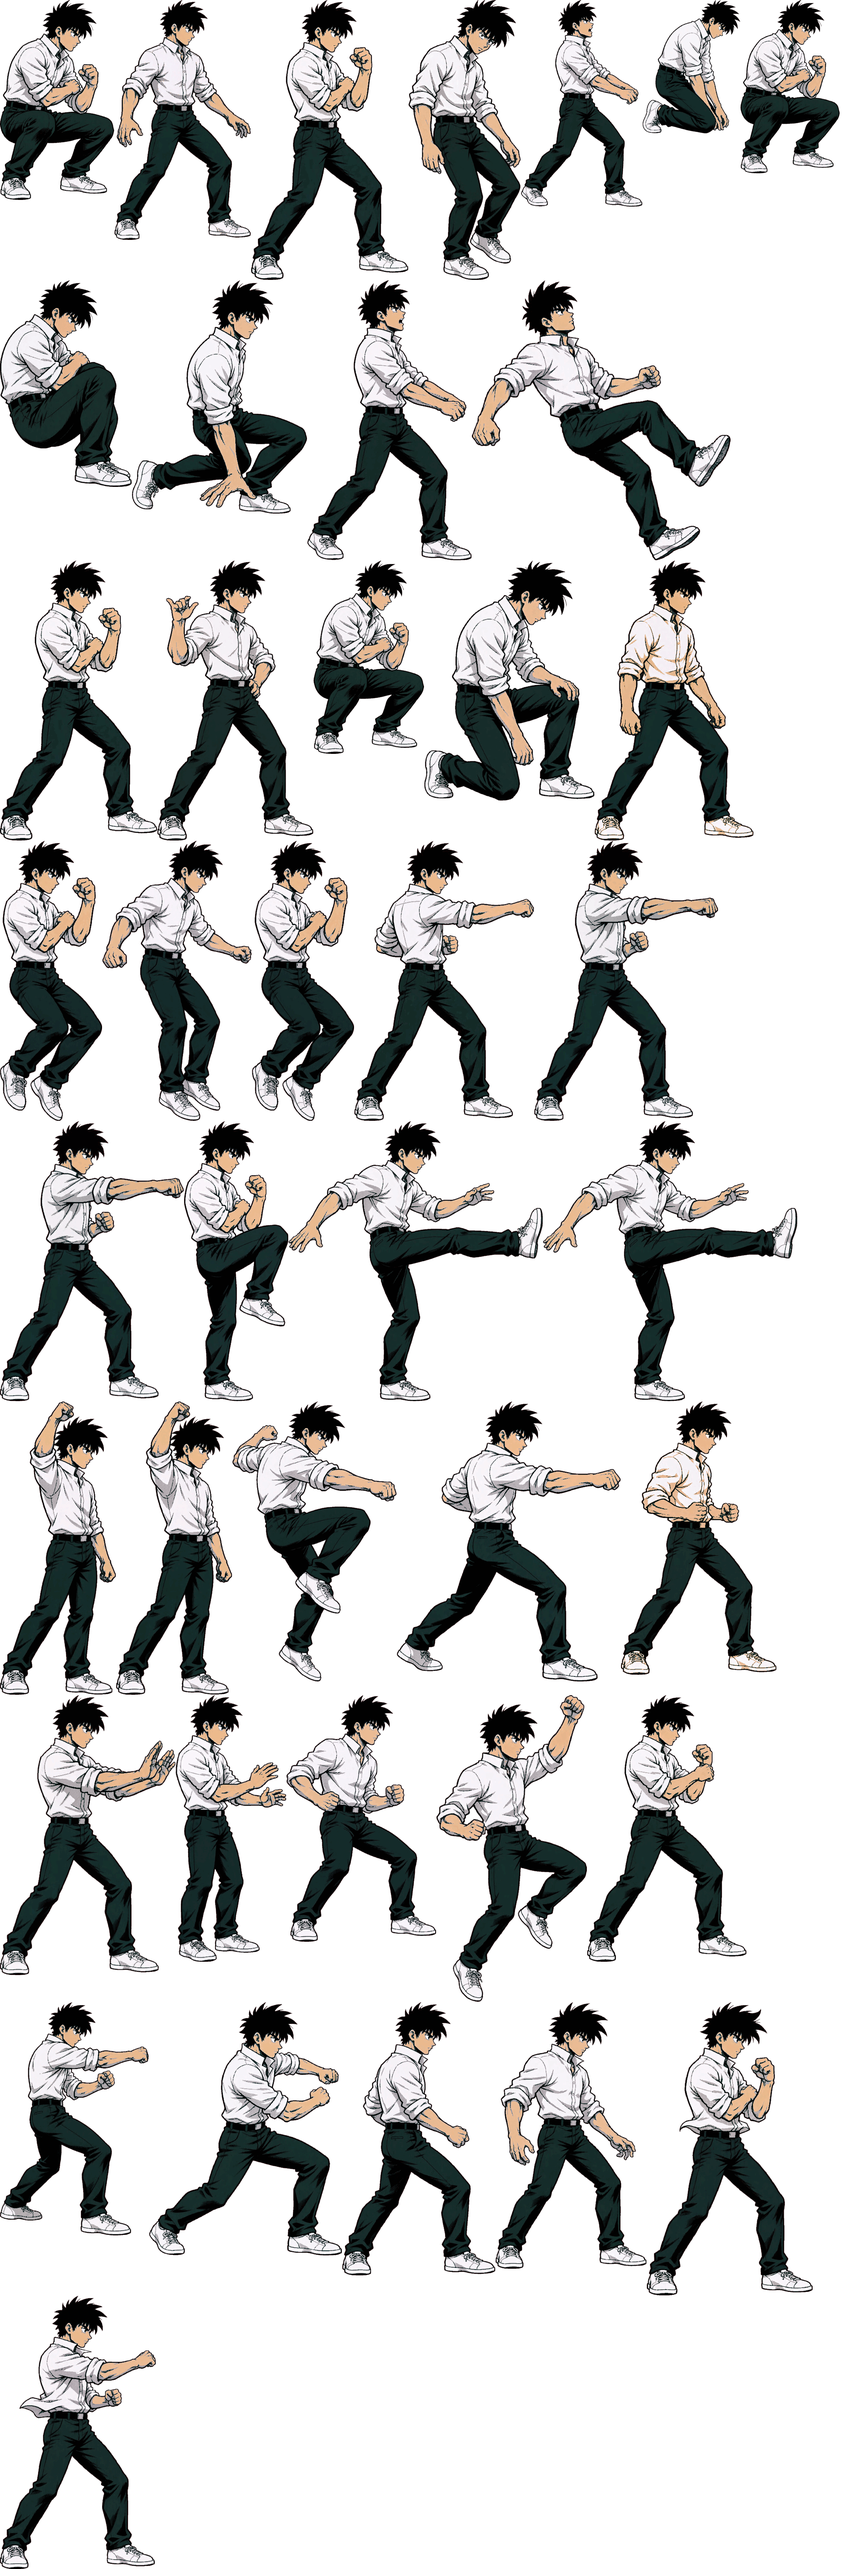
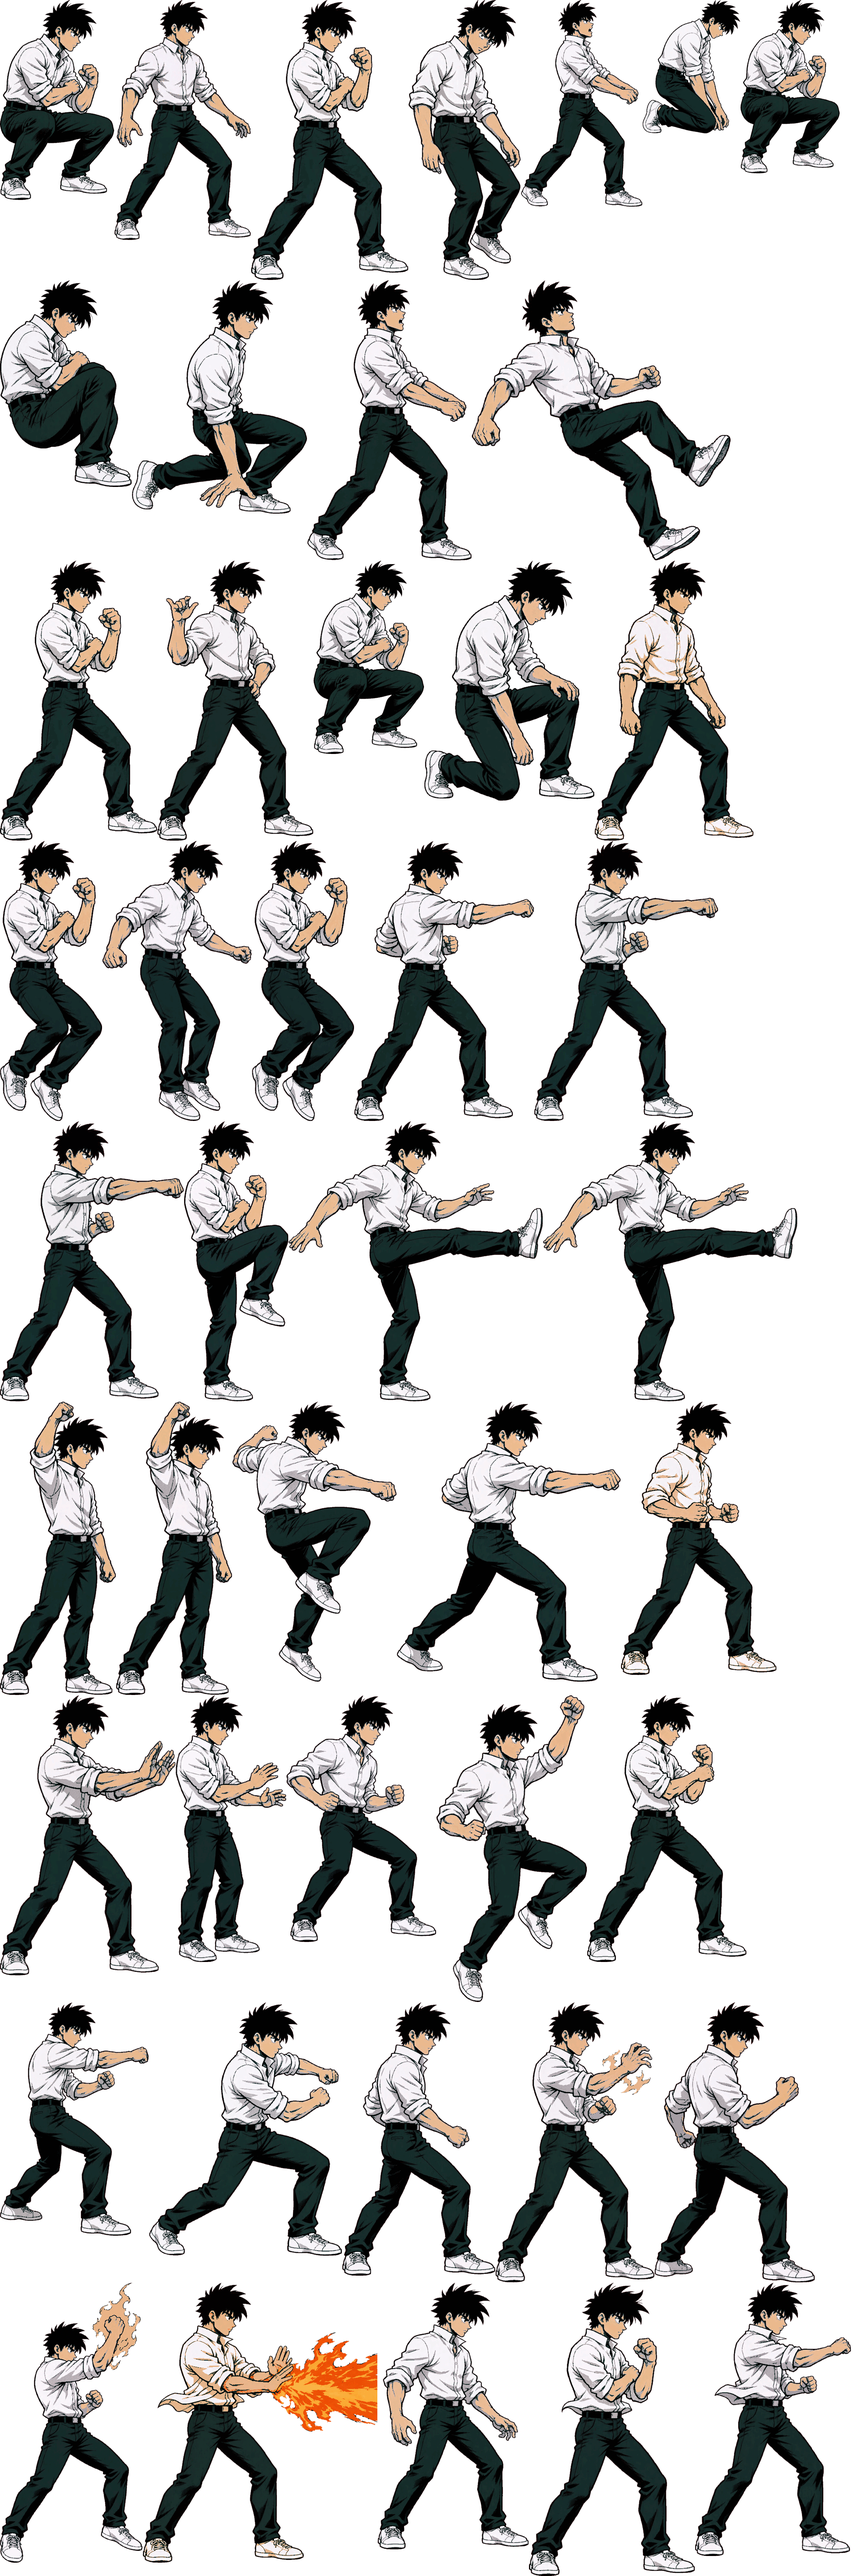
批次 20261027-0619 · [T258] 角色动作专属化 1/27：草薙京 4 个必杀各有专属姿势
背景：所有角色共用一个姿势库——京的「荒咬」、八神的「屑風」、Terry 的「Power Wave」、
Athena 的「Psycho Ball」全是同一个"双手前推"。规划见 docs/MOVE-PER-CHAR.md。

改了什么：
- gen-poses 加 4 条京专属提示词（荒咬：爪状上撩带火焰；毒咬：低处上勾；
  鬼焼：冲天拳带火；大蛇薙：双手推出火柱）
- build-sheet 加 kyspecial1/2/3 + kysuper 四个动画
- poses.ts 加这 4 个的程序化兜底（贴图没加载时别画出站架）
- kyo.ts 把 4 个必杀的 anim 从 'special' 换成专属名（236236AC 和 236236P 共用 kysuper）

为什么先做 1 帧而不是 3 帧：先验证"AI 能不能画出角色专属招式"这个前提。
4 张图 3 分钟，3 帧要 12 张 9 分钟——方向不对就别浪费。

效果（/tmp/kyo-moves.png）：荒咬带爪焰、鬼焼是带火的冲天拳、大蛇薙喷出火柱，
三张都明显不是原来的"双手前推"；毒咬那张 AI 没画出火焰，需要单独重出。

怎么验证的：node 直读确认 236A→kyspecial1、623P→kyspecial3、236236P→kysuper、
5C→punchHeavy（没误伤普通技）；art:check 通过；npm run check 995 条全绿
（修了 2 处被专属化影响的断言：超必杀映射改用还没专属化的 IORI、动画总数改成 >=33）
**游戏内截图没抓到目标帧**：键盘搓 236 容易判成 5C、超必杀要满气而开局为 0，
改用"原图预览 + 数据断言"验证。

diff --git a/src/data/chars/kyo.ts b/src/data/chars/kyo.ts
@@ -156,7 +156,7 @@ export const KYO: CharDef = {
     ]),
 
     // ---------------------------------------------------------------- 必杀技
-    '236A': mv('236A', '百拾四式・荒咬み', 'special', 34, 'special', [
+    '236A': mv('236A', '百拾四式・荒咬み', 'kyspecial1', 34, 'special', [
       hit('h1', {
         box: { x: 22, y: -62, w: 36, h: 16 },
         frames: [10, 13],
@@ -193,7 +193,7 @@ export const KYO: CharDef = {
       }),
     ], { input: { motion: '236', buttons: ['A'] } }),
 
-    '236C': mv('236C', '百拾五式・毒咬み', 'special', 36, 'special', [
+    '236C': mv('236C', '百拾五式・毒咬み', 'kyspecial2', 36, 'special', [
       hit('h1', {
         box: { x: 24, y: -58, w: 38, h: 18 },
         frames: [11, 14],
@@ -230,7 +230,7 @@ export const KYO: CharDef = {
       }),
     ], { input: { motion: '236', buttons: ['C'] } }),
 
-    '623P': mv('623P', '百式・鬼焼き', 'special', 42, 'special', [
+    '623P': mv('623P', '百式・鬼焼き', 'kyspecial3', 42, 'special', [
       hit('h1', {
         box: { x: 6, y: -88, w: 26, h: 62 },
         frames: [4, 11],
@@ -280,7 +280,7 @@ export const KYO: CharDef = {
     ], { input: { motion: '421', buttons: ['B'] } }),
 
     // ---------------------------------------------------------------- 超必杀
-    '236236P': mv('236236P', '裏百八式・大蛇薙', 'special', 62, 'super', [
+    '236236P': mv('236236P', '裏百八式・大蛇薙', 'kysuper', 62, 'super', [
       hit('h1', {
         box: { x: 16, y: -88, w: 46, h: 80 },
         frames: [12, 16],
@@ -311,7 +311,7 @@ export const KYO: CharDef = {
       }),
     ], { input: { motion: '236236', buttons: ['A'] }, meterCost: 50 }),
 
-    '236236AC': mv('236236AC', '最終決戦奥義・無式', 'special', 74, 'super', [
+    '236236AC': mv('236236AC', '最終決戦奥義・無式', 'kysuper', 74, 'super', [
       hit('h1', { box: { x: 14, y: -80, w: 44, h: 60 }, frames: [10, 14], damage: 50, hitStun: 20, hitstop: 10, meterGain: 0 }),
       hit('h2', { box: { x: 14, y: -80, w: 44, h: 60 }, frames: [20, 24], damage: 45, hitStun: 20, hitstop: 10, meterGain: 0 }),
       hit('h3', { box: { x: 14, y: -80, w: 44, h: 60 }, frames: [30, 34], damage: 45, hitStun: 20, hitstop: 10, meterGain: 0 }),

diff --git a/src/render/poses.ts b/src/render/poses.ts
@@ -428,6 +428,33 @@ export const POSE_LIBRARY: Record<string, Pose> = {
       f({ head: p(1, -70), neck: p(1, -60), armFront: [p(6, -56), p(10, -48)], armBack: [p(-4, -56), p(-6, -48)] }),
     ],
   },
+  /**
+   * 角色专属必杀的**程序化兜底**。
+   *
+   * 这些动画真正的样子来自出图（`kyspecial1` 等）；这里只是一帧兜底形状，
+   * 用于"贴图没加载/加载失败"时别画出个站架。形状尽量贴近该招的意图：
+   * 荒咬＝爪状上撩、毒咬＝低处上勾、鬼焼＝冲天、大蛇薙＝双手推出。
+   */
+  kyspecial1: {
+    frameDuration: 1,
+    loop: false,
+    frames: [f({ head: p(0, -68), neck: p(1, -58), armFront: [p(10, -62), p(22, -70)], armBack: [p(-6, -52), p(-10, -44)] })],
+  },
+  kyspecial2: {
+    frameDuration: 1,
+    loop: false,
+    frames: [f({ head: p(2, -64), neck: p(2, -54), hip: p(-1, -34), armFront: [p(8, -46), p(16, -54)], armBack: [p(-8, -50), p(-14, -44)] })],
+  },
+  kyspecial3: {
+    frameDuration: 1,
+    loop: false,
+    frames: [f({ head: p(1, -76), neck: p(1, -64), hip: p(0, -42), armFront: [p(6, -72), p(4, -86)], armBack: [p(-8, -52), p(-10, -44)] })],
+  },
+  kysuper: {
+    frameDuration: 1,
+    loop: false,
+    frames: [f({ head: p(0, -70), neck: p(0, -60), armFront: [p(16, -56), p(32, -54)], armBack: [p(8, -56), p(20, -54)] })],
+  },
   /** 升龙系：整个人向上冲，手臂上举 */
   specialUppercut: {
     frameDuration: 1,

diff --git a/tests/move-anim.test.ts b/tests/move-anim.test.ts
@@ -18,7 +18,9 @@ describe('必杀技专属动作', () => {
   it('波动用推手、升龙用上挑、超必杀用蓄力（各有专属姿势）', () => {
     expect(poseForMotion('236')).toBe('specialProjectile');
     expect(poseForMotion('623')).toBe('specialUppercut');
-    expect(poseForMove(KYO.moves['236236AC']!)).toBe('superCharge');
+    // 京现在是**专属化**过的角色（T258），超必杀用他自己的 kysuper；
+    // 用还没专属化的 IORI 验证通用映射规则本身
+    expect(poseForMove(IORI.moves['236236A']!)).toBe('superCharge');
   });
 
   it('映射出来的姿势必须真的存在（否则有贴图的角色会回落到程序化绘制）', () => {

diff --git a/tests/sprite-loader.test.ts b/tests/sprite-loader.test.ts
@@ -193,8 +193,9 @@ describe('图集分片（首屏只下核心片）', () => {
     expect(overlap).toEqual([]);
   });
 
-  it('两片合起来覆盖全部 33 个动画（分片不能丢动作）', () => {
-    expect(Object.keys(sheetJson.anims).length).toBe(33);
+  it('两片合起来覆盖全部动画（分片不能丢动作）', () => {
+    // 33 个通用动画 + 京的 4 个专属必杀（T258 起，专属化会继续加）
+    expect(Object.keys(sheetJson.anims).length).toBeGreaterThanOrEqual(33);
   });
 });
 

diff --git a/docs/MOVE-PER-CHAR.md b/docs/MOVE-PER-CHAR.md
@@ -62,7 +62,7 @@ mv('236A', '百拾四式・荒咬', 'punchLight', 26, 'special', [...])
 
 | # | 角色 | 必杀专属动作 | 状态 |
 |---|---|---|---|
-| 1 | 草薙京 kyo | 荒咬 / 九伤 / 八锖 / 毒咬 | - |
+| 1 | 草薙京 kyo | 荒咬 / 毒咬み / 鬼焼き / 大蛇薙 | **done** |
 | 2 | 二阶堂红丸 benimaru | 雷光拳 / 真空片手驹 / 居合い蹴り / 雷靭拳 | - |
 | 3 | 大门五郎 daimon | 地雷震 / 超大外刈り / 天地返し / 雲つかみ | - |
 | 4 | Terry terry | パワーウェイブ / バーンナックル / ライジングタックル / パワーガイザー | - |
@@ -90,9 +90,29 @@ mv('236A', '百拾四式・荒咬', 'punchLight', 26, 'special', [...])
 | 26 | 暴走庵 orochi_iori | 百八式・闇払い / 百式・鬼焼き / 屑風 / 禁千弐百拾八式・八稚女 | - |
 | 27 | 覚醒レオナ orochi_leona | グランドセイバー / ムーンストライカー / Xキャリバー / リボルブブラスター | - |
 
-**完成度：0 / 27**
+**完成度：1 / 27**
 
-## 六、执行约定
+## 六、已完成记录
+
+### 1. 草薙京（done）
+
+4 个必杀各出一张专属姿势（先做 1 帧验证方向，起手/收招后续补）：
+
+| 招式 | 专属动画 | 出图效果 |
+|---|---|---|
+| 百拾四式・荒咬み（236A） | `kyspecial1` | 右手成爪前撩、**腕部带橙色火焰** |
+| 百拾五式・毒咬み（236C） | `kyspecial2` | 右拳由下向上勾击（这张 AI **没画出火焰**，需要重出） |
+| 百式・鬼焼き（623P） | `kyspecial3` | 向上冲天拳、**拳头带火** |
+| 裏百八式・大蛇薙（236236P） | `kysuper` | 双手推出、**喷出巨大火柱** |
+
+数据改动：`mv()` 第 3 参数从 `'special'` 换成专属 anim 名。
+验证：`node` 直读确认 `236A → pose kyspecial1`、`623P → kyspecial3`、`236236P → kysuper`；
+`art:check` 通过。
+
+**截图验证受限**：键盘输入 236 指令很容易被判成 5C、超必杀又需要满气（开局气为 0），
+所以游戏内截图没抓到目标帧；改为「原图预览 + 数据断言」验证。
+
+## 七、执行约定
 
 - 每个角色一次提交，提交信息带 `批次 + [T<编号>] 角色名 + 3/27`
 - 每完成一个角色：更新上表状态 → 重打包该角色 → `art:check` → 单测

diff --git a/.continue/doing/59bce7.md b/.continue/doing/59bce7.md
@@ -1,0 +1,15 @@
+# 队列 · 会话 59bce766a368447cf9cf15c7e36322c83
+
+> 状态：执行中
+> 创建：2026-10-27
+> 批次：20261027-0619
+
+> 本批目标：角色动作专属化 · 第 1 个角色（草薙京）。
+
+- [x] [T258] 草薙京 4 个必杀专属动作（1/27）→ 出图 + 数据 + 原图验证
+  - 背景：所有角色共用一个姿势库，京的荒咬/八神的屑風/Terry 的 Power Wave/Athena 的 Psycho Ball 全是同一个"双手前推"。规划见 `docs/MOVE-PER-CHAR.md`
+  - 做了什么：①`gen-poses.mjs` 加 4 条京专属提示词（荒咬：爪状上撩带火焰；毒咬：低处上勾；鬼焼：冲天拳带火；大蛇薙：双手推出火柱）；②`build-sheet.mjs` 加 `kyspecial1/2/3` + `kysuper` 四个动画；③`kyo.ts` 把 4 个必杀的 anim 从 `'special'` 换成专属名（`236236AC` 和 `236236P` 共用 `kysuper`）
+  - 为什么先做 1 帧而不是 3 帧：先验证"AI 能不能画出角色专属招式"这个前提。4 张图只要 3 分钟，3 帧要 12 张、9 分钟——方向不对就别浪费
+  - **效果（/tmp/kyo-moves.png）**：荒咬带爪焰、鬼焼是带火的冲天拳、大蛇薙喷出火柱——三张都明显不是原来的"双手前推"。**毒咬那张 AI 没画出火焰**，需要单独重出
+  - 验证：node 直读确认 `236A → pose kyspecial1`、`623P → kyspecial3`、`236236P → kysuper`、`5C → punchHeavy`（没误伤普通技）；`art:check` 通过。**游戏内截图没抓到目标帧**（键盘搓 236 容易判成 5C、超必杀要满气而开局气为 0），改用"原图预览 + 数据断言"
+  - 批次：20261027-0619

diff --git a/.continue/TASKS.md b/.continue/TASKS.md
@@ -276,3 +276,4 @@
 - [x] T255 突进补收招帧：两帧 → 三帧（29/29；3 个角色缺图用"复制最后一帧"补齐）
 - [x] T256 加载进度条：首次进入与开局前阻塞加载，显示百分比，加载完才进游戏
 - [x] T257 对局 HUD 重排：血条 9→18px、气槽移出底部（原被手台盖住）、按钮移到底部居中
+- [x] T258 角色动作专属化 1/27：草薙京 4 个必杀专属姿势（荒咬/毒咬/鬼焼/大蛇薙）
